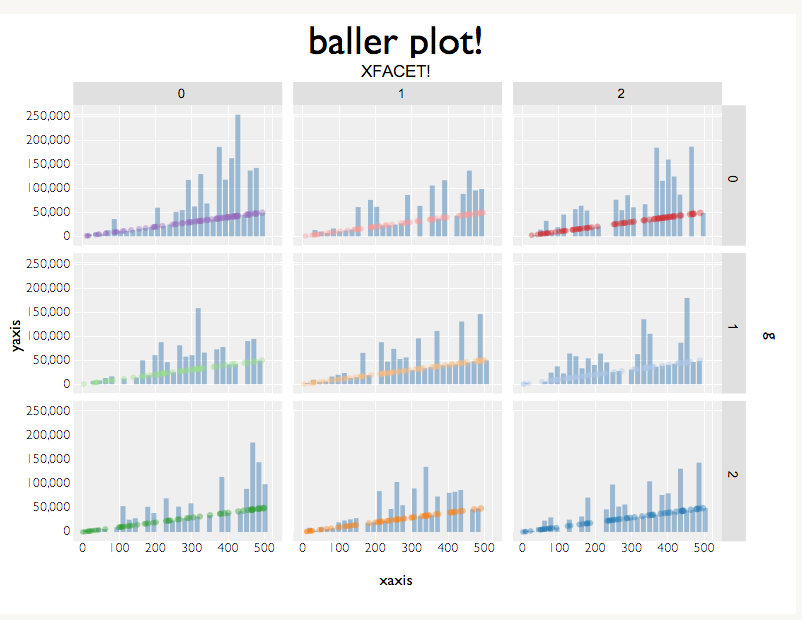
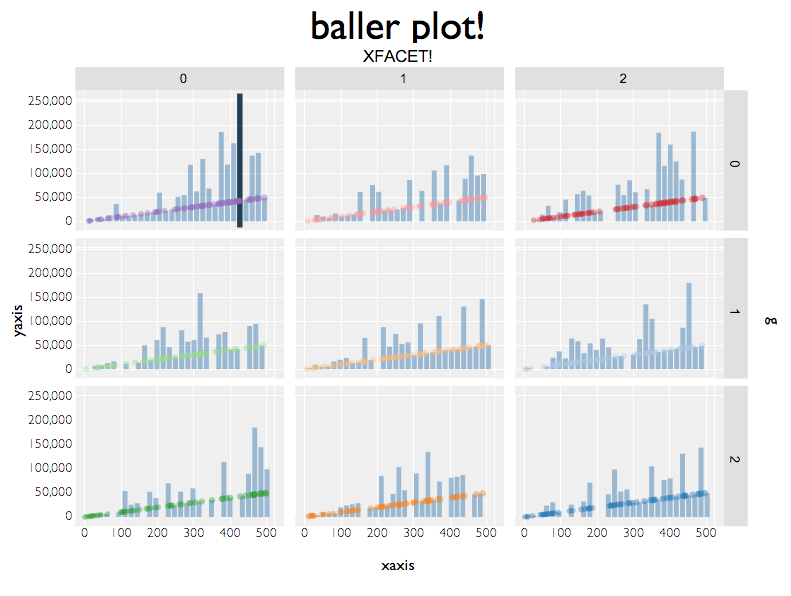
updated screenshot

Changed region(s): [[0.0, 0.0, 1.0, 0.9664], [0.3641, 0.2718, 0.6372, 0.3926]]

diff --git a/README.md b/README.md
@@ -27,7 +27,8 @@ Compile
 Current Implementation can render
 ---------------
 
-Screenshot!
+Screenshot!  Notice the darkened bar in the upper left facet -- this is the
+result of the mouse hovering over it.
 
 <img src="https://raw.github.com/sirrice/gg/new-model/docs/imgs/screenshot.png"/>
 
